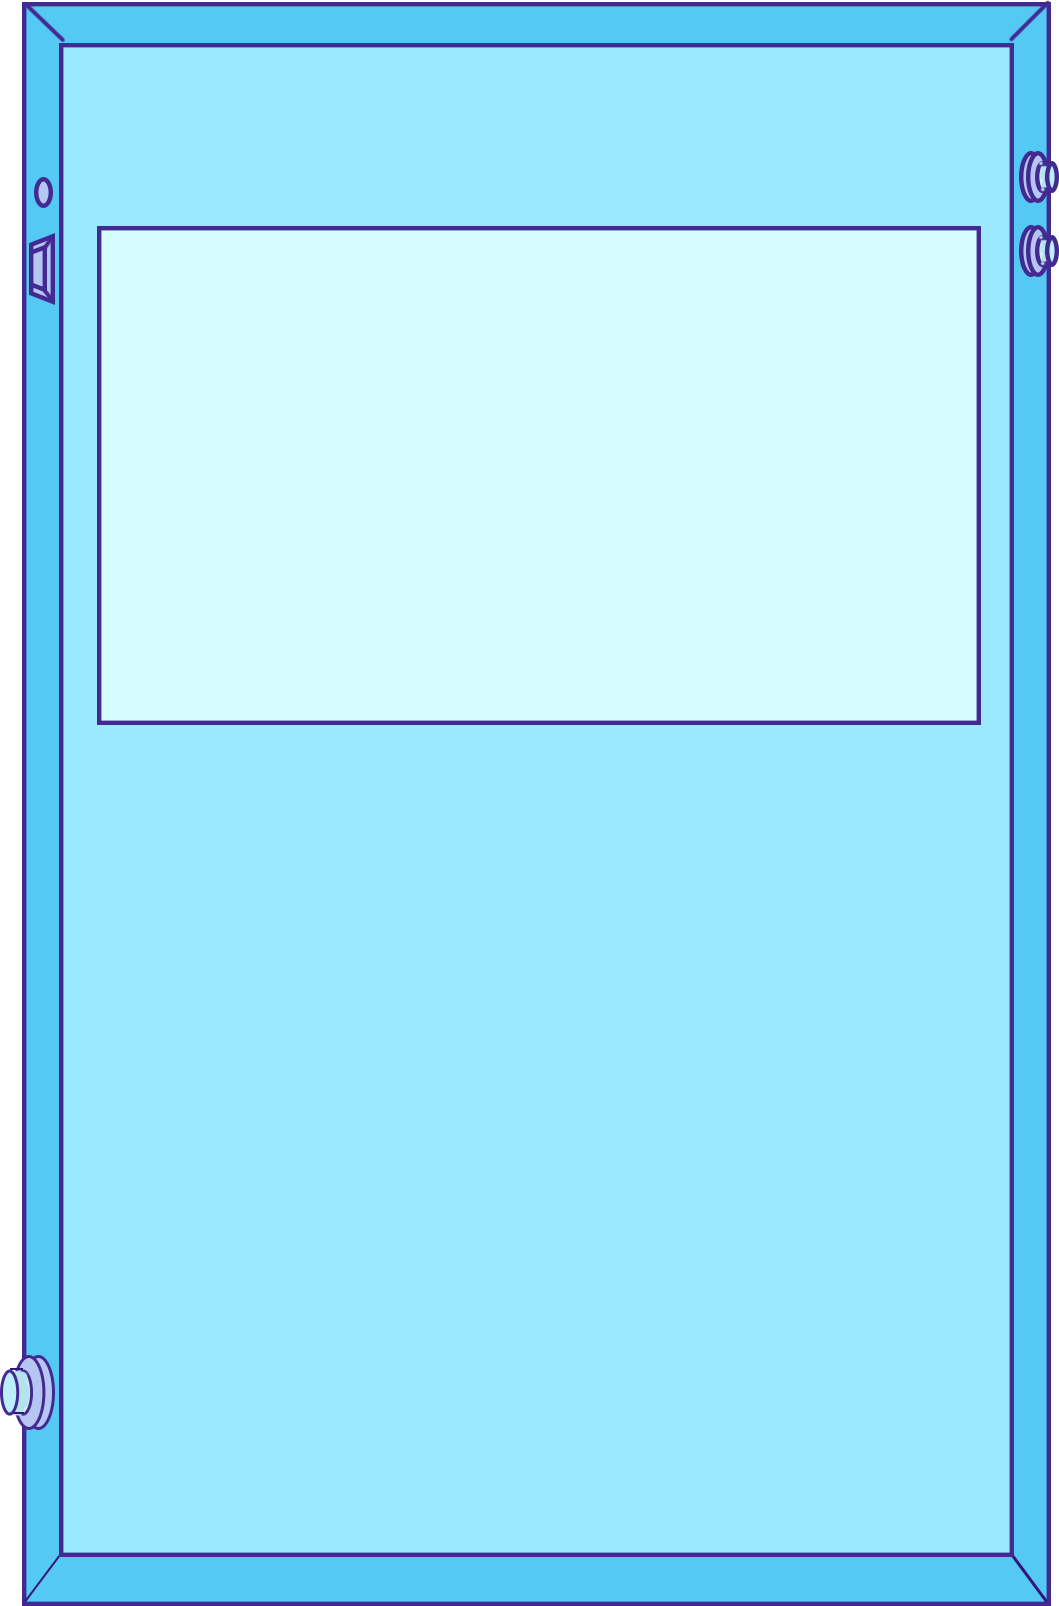
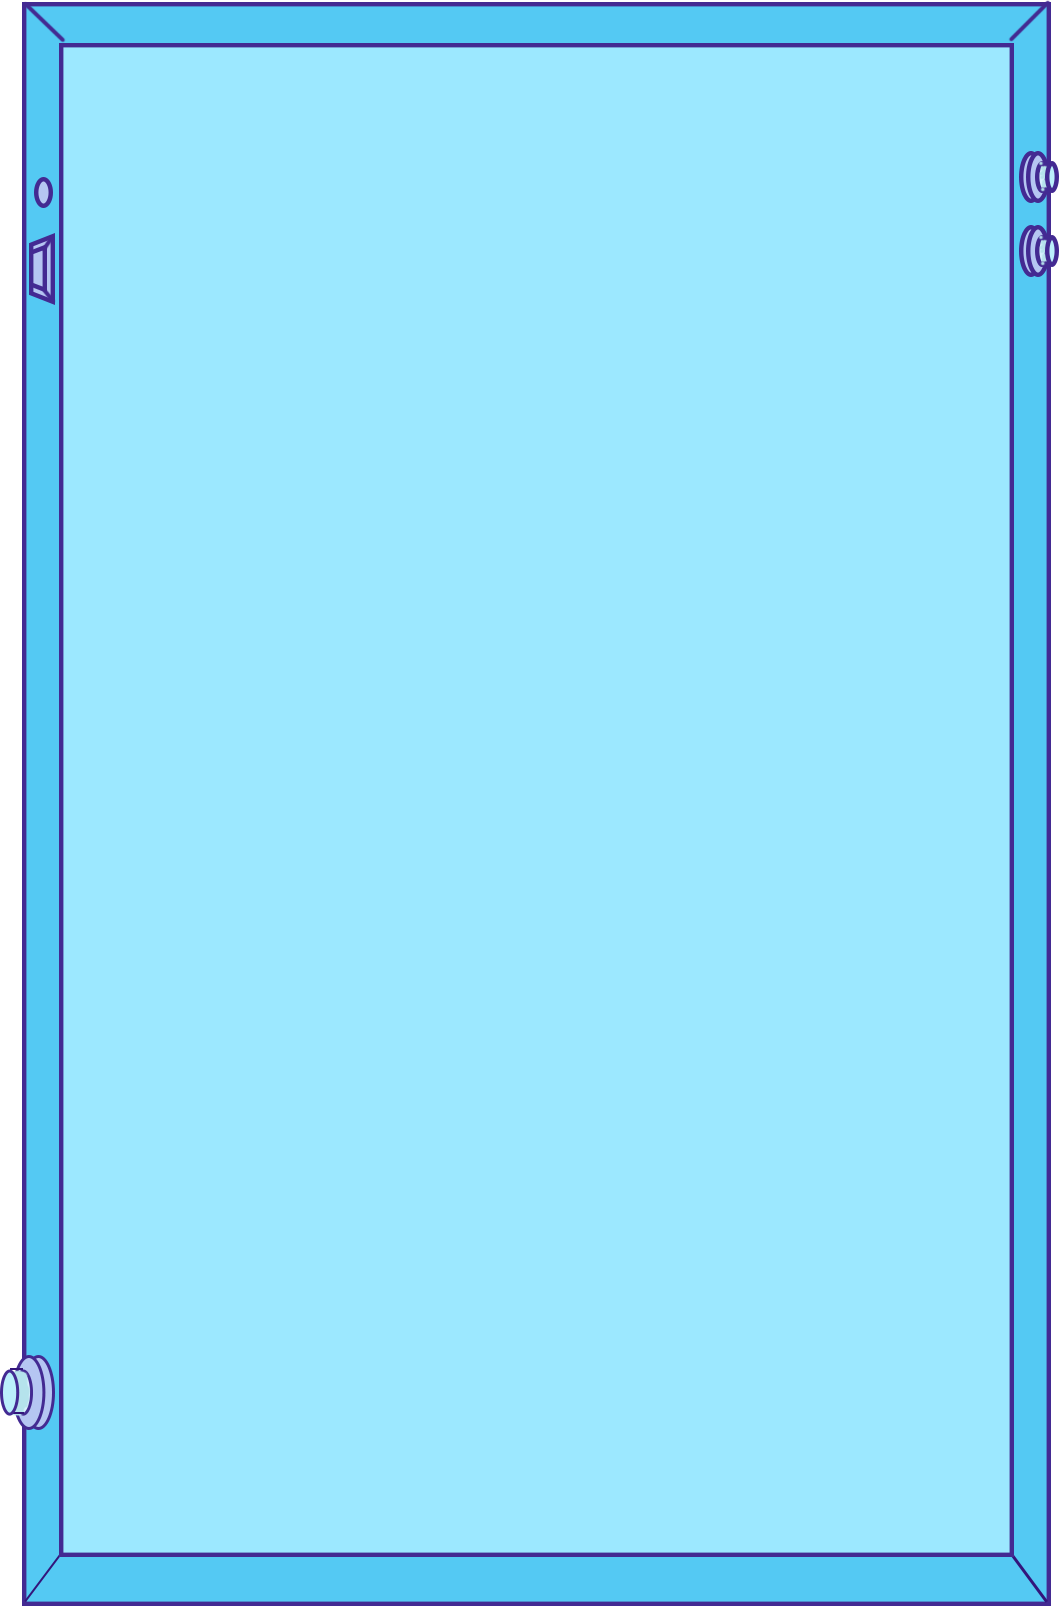
完成活动分页tab高度变换

Changed region(s): [[0.0935, 0.1245, 0.9348, 0.467]]

diff --git a/src/components/Smile.vue b/src/components/Smile.vue
@@ -22,6 +22,18 @@
     </div>
 </template>
 
+<script>
+export default {
+    mounted() {
+        document.querySelector('.tab').style.height = '1100px'
+    },
+    beforeDestroy() {
+        document.querySelector('.tab').style.height = '1500px'
+    }
+}
+</script>
+
+
 <style lang="less" scoped>
     .smile {
         width: 832px;
@@ -37,7 +49,7 @@
     }
     .main {
         width: 90%;
-        height: 260px;
+        height: 190px;
         background: #d5fbff;
         margin-top: 40px;
         border: solid 4.5px #432a92;
@@ -45,7 +57,7 @@
     }
     .tips {
         width: 100%;
-        height: 60px;
+        height: 45px;
         display: flex;
         align-items: center;
         //margin-bottom: 20px;

diff --git a/src/components/Style/BanGongShi.vue b/src/components/Style/BanGongShi.vue
@@ -8,10 +8,10 @@
 <style lang="less" scoped>
     .bumen {
         width: 570px;
-        height: 590px;
+        height: 740px;
         padding-left: 100px;
         padding-right: 60px;
-        padding-top: 180px;
+        padding-top: 30px;
         overflow: hidden;
     }
     .title {

diff --git a/src/components/Style/XuanChuangBu.vue b/src/components/Style/XuanChuangBu.vue
@@ -8,10 +8,10 @@
 <style lang="less" scoped>
     .bumen {
         width: 570px;
-        height: 540px;
+        height: 740px;
         padding-left: 100px;
         padding-right: 60px;
-        padding-top: 230px;
+        padding-top: 30px;
         overflow: hidden;
     }
     .title {

diff --git a/src/components/Style/ZuZhiBu.vue b/src/components/Style/ZuZhiBu.vue
@@ -8,10 +8,10 @@
 <style lang="less" scoped>
     .bumen {
         width: 570px;
-        height: 540px;
+        height: 740px;
         padding-left: 100px;
         padding-right: 60px;
-        padding-top: 230px;
+        padding-top: 30px;
         overflow: hidden;
     }
     .title {

diff --git a/src/components/ActivityTab.vue b/src/components/ActivityTab.vue
@@ -30,6 +30,7 @@ export default {
         background-size: 100% 100%;
         position: relative;
         z-index: 1;
+        transition: all .3s;
     }
     .tab-header {
         width: 60%;

diff --git a/README.md b/README.md
@@ -40,6 +40,7 @@ Vue-Video-Player
 - [ ] select小组件
 - [x] 压缩图片
 - [x] 首页加载动画
+- [x] 活动分页tab高度变换
 
 
 
